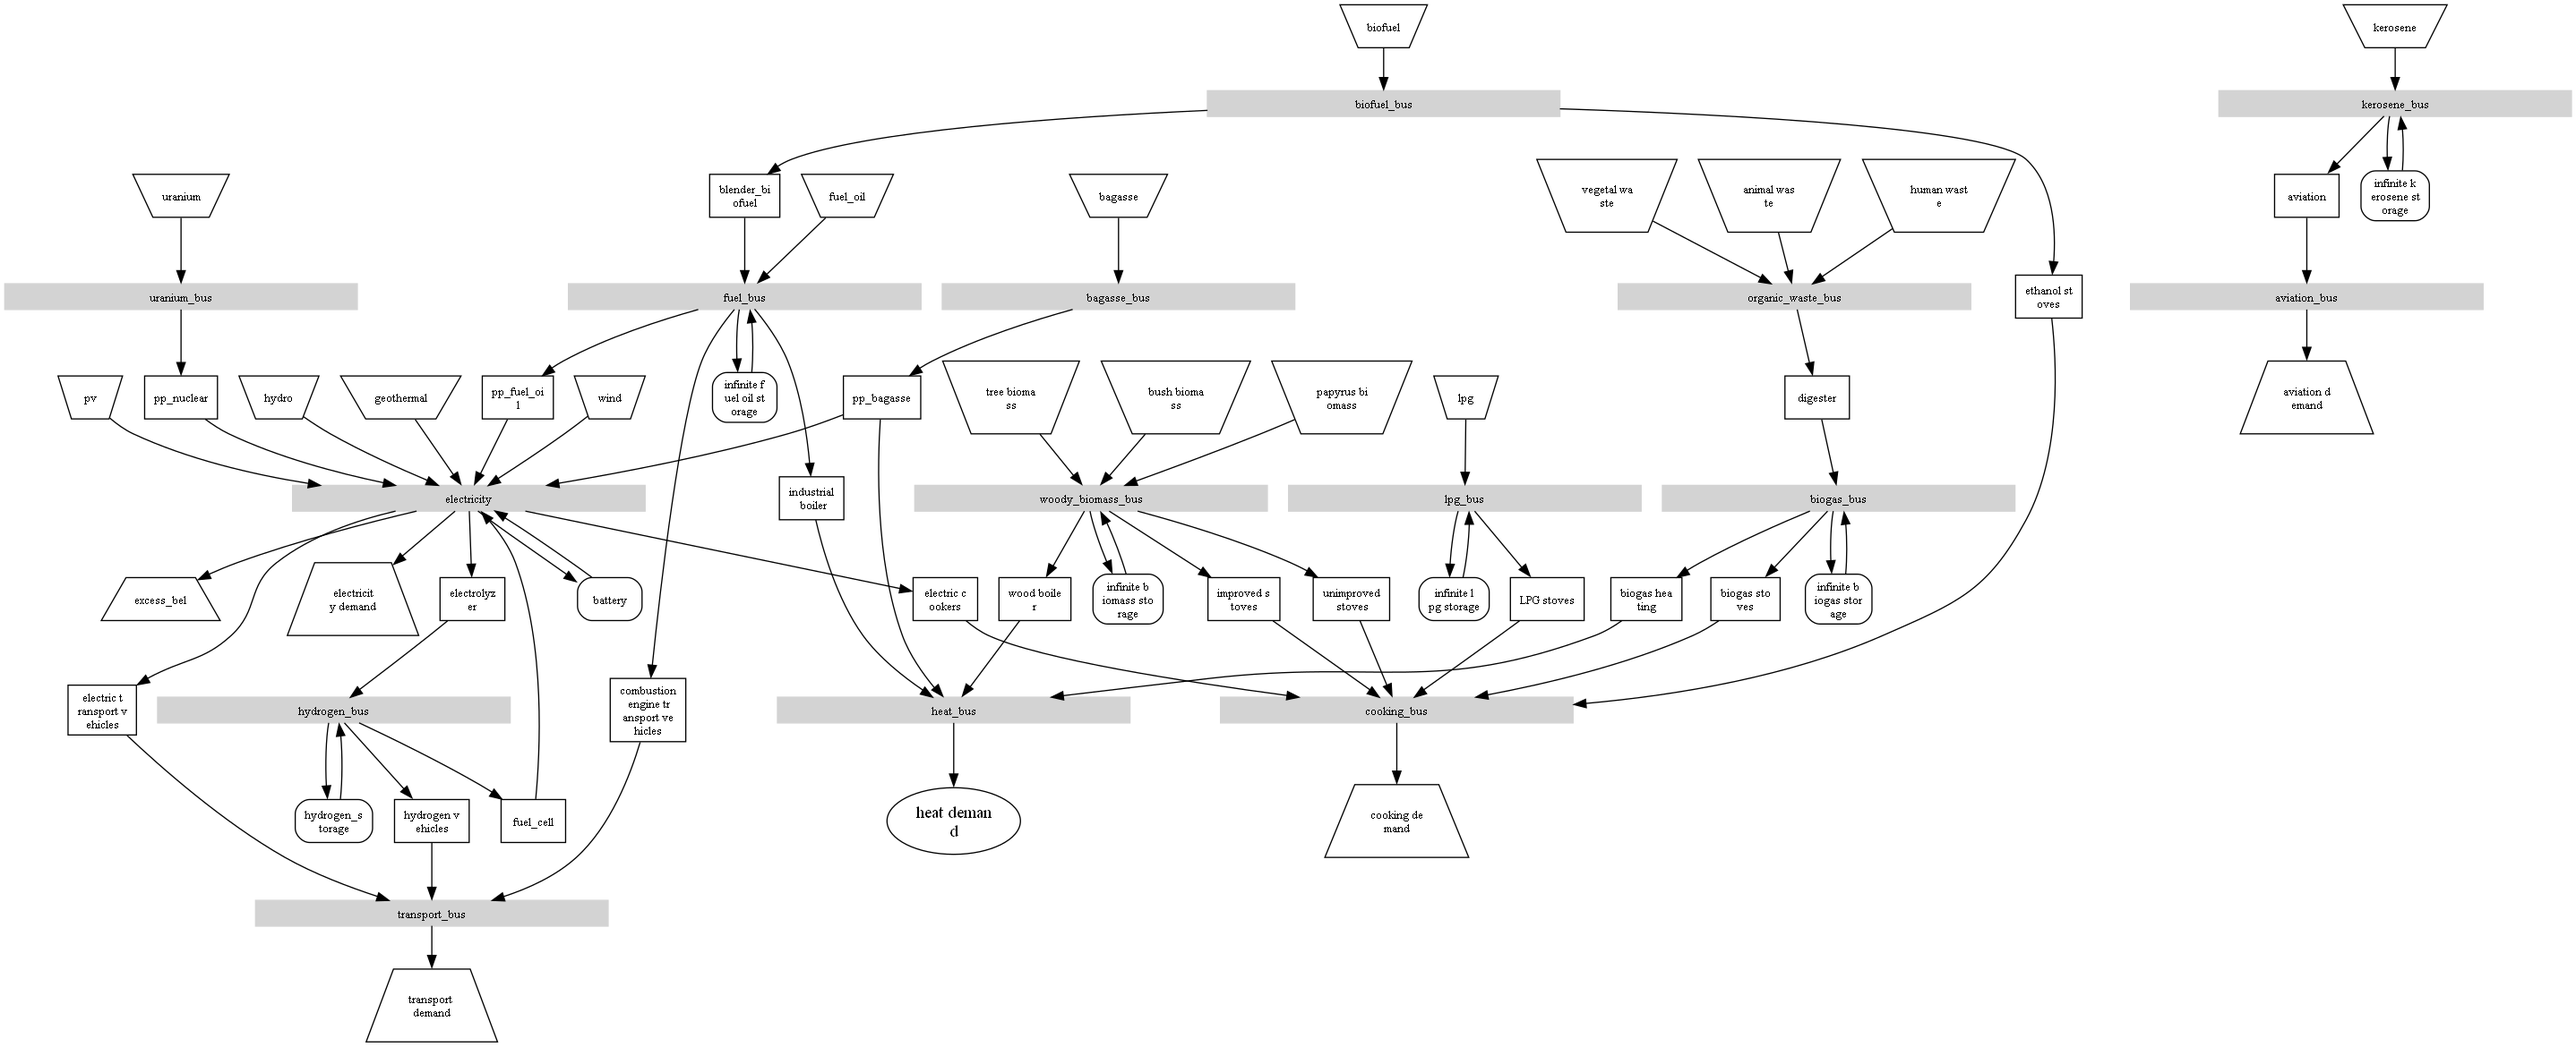
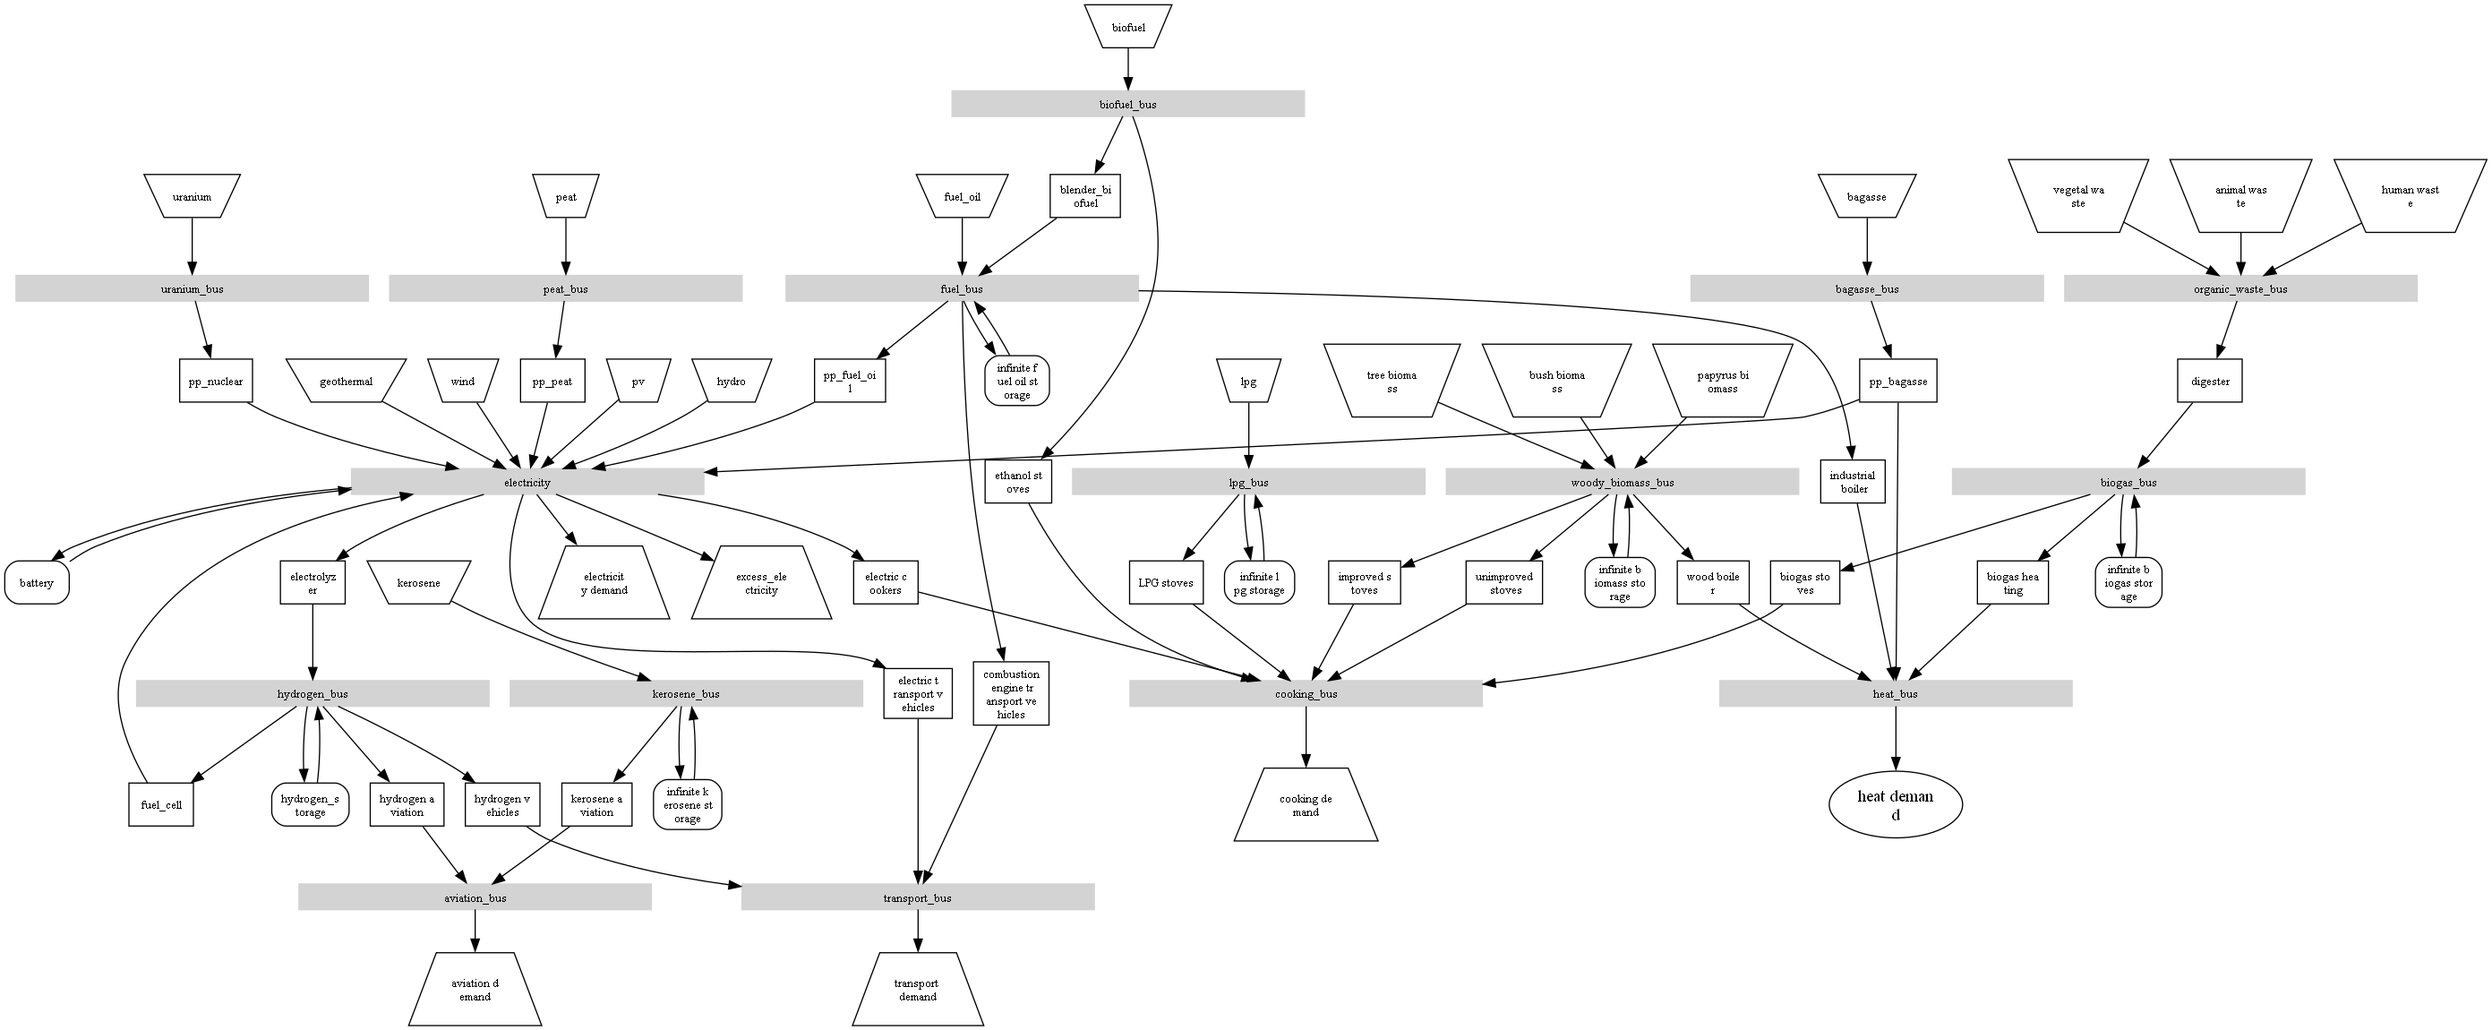
add peat energy and hydrogen vehicles; correcting RE share calculation

diff --git a/scenarios/superstructure_2040.py b/scenarios/superstructure_2040.py
@@ -82,7 +82,8 @@ epc_pv = 90345  # economics.annuity (n=20, wacc=0.05)
 epc_hydro = 247500  # economics.annuity (n=20, wacc=0.05)
 epc_battery = 21812.5  # economics.annuity (n=20, wacc=0.05)
 epc_hydrogen_storage = 3937.5
-epc_fuel_oil = 10  # 98000  # economics.annuity(capex=1000, n=20, wacc=0.05)
+epc_fuel_oil = 98000  # economics.annuity(capex=1000, n=20, wacc=0.05)
+epc_peat = 187182.5  # economics.annuity(capex=1000, n=25, wacc=0.05)
 epc_biomass = 206250  # sugarcane bagasse CHP
 epc_electrolyzer = 50625  # hydrogen electrolyzer
 epc_nuclear = 506192.5  # economics.annuity (n=50, wacc=0.05)
@@ -100,7 +101,8 @@ epc_ethanol_stove = 1000
 epc_combustion_engine_transport = 13937.5
 epc_electric_transport = 20500
 epc_hydrogen_transport = 17875
-epc_aviation = 650687.5
+epc_kerosene_aviation = 650687.5
+epc_hydrogen_aviation = 1000000
 
 
 ##########################################################################
@@ -115,8 +117,11 @@ bfuel = solph.Bus(label="fuel_bus")
 # create biofuel bus
 bbfuel = solph.Bus(label="biofuel_bus")
 
-# create uran bus
+# create uranium bus
 buran = solph.Bus(label="uranium_bus")
+
+# create peat bus
+bpeat = solph.Bus(label="peat_bus")
 
 # create kerosene bus
 bks = solph.Bus(label="kerosene_bus")
@@ -157,12 +162,8 @@ bba = solph.Bus(label='bagasse_bus')
 # create lpg bus
 blpg = solph.Bus(label='lpg_bus')
 
-energysystem.add(bfuel, bbfuel, buran, bel, borg, bks, bba, bbg, bheat, btrans, bavia, bcook, bhg, blpg, bwood)
+energysystem.add(bfuel, bbfuel, buran, bel, bpeat, borg, bks, bba, bbg, bheat, btrans, bavia, bcook, bhg, blpg, bwood)
 
-# create excess component for the electricity bus to allow overproduction
-excess = solph.components.Sink(
-    label="excess_bel", inputs={bel: solph.Flow()}
-)
 
 # create source object representing the fuel oil commodity
 fuel_oil_resource = solph.components.Source(
@@ -174,6 +175,10 @@ biofuel_resource = solph.components.Source(
     label="biofuel", outputs={bbfuel: solph.Flow(variable_costs=price_biofuel, nominal_value=1, max=1007)}
 )
 
+# create peat source object
+peat_resource = solph.components.Source(
+    label="peat", outputs={bpeat: solph.Flow(variable_costs=price_peat)}
+)
 # uranium resource
 uranium_resource = solph.components.Source(
     label="uranium", outputs={buran: solph.Flow(variable_costs=price_uranium)}
@@ -269,7 +274,7 @@ pp_nuclear = solph.components.Transformer(
     inputs={buran: solph.Flow()},
     outputs={
         bel: solph.Flow(full_load_time_min=number_timesteps,  # constant operation at rated power
-                        variable_costs=3.4, investment=solph.Investment(ep_costs=epc_nuclear))
+                        variable_costs=13, investment=solph.Investment(ep_costs=epc_nuclear))
     },
     conversion_factors={bel: 0.33}
 )
@@ -286,11 +291,25 @@ pp_fuel_oil = solph.components.Transformer(
     label="pp_fuel_oil",
     inputs={bfuel: solph.Flow()},
     outputs={
-        bel: solph.Flow(variable_costs=3.4,
+        bel: solph.Flow(full_load_time_min=number_timesteps,  # constant operation at rated power
+                        variable_costs=3.4,
                         investment=solph.Investment(ep_costs=epc_fuel_oil, existing=92))
     },
     conversion_factors={bel: 0.375},
 )
+
+# create simple transformer object representing a fuel oil plant
+pp_peat = solph.components.Transformer(
+    label="pp_peat",
+    inputs={bpeat: solph.Flow()},
+    outputs={
+        bel: solph.Flow(full_load_time_min=number_timesteps,  # constant operation at rated power
+                        variable_costs=6.8,
+                        investment=solph.Investment(ep_costs=epc_peat, maximum=800))
+    },
+    conversion_factors={bel: 0.4},
+)
+
 
 # Anaerobic Digester
 digester = solph.components.Transformer(
@@ -449,14 +468,26 @@ transport_hg = solph.components.Transformer(
     },
     conversion_factors={btrans: 0.3},
 )
-# airplanes
-aviation = solph.components.Transformer(
-    label="aviation",
+# hydrogen airplanes
+airplanes_hydrogen = solph.components.Transformer(
+    label="hydrogen aviation",
+    inputs={bhg: solph.Flow()},
+    outputs={
+        bavia: solph.Flow(
+            variable_costs=0,
+            investment=solph.Investment(ep_costs=epc_hydrogen_aviation)
+        )
+    },
+    conversion_factors={bavia: 0.3},
+)
+# kerosene airplanes
+airplanes_kerosene = solph.components.Transformer(
+    label="kerosene aviation",
     inputs={bks: solph.Flow()},
     outputs={
         bavia: solph.Flow(
             variable_costs=0,
-            investment=solph.Investment(ep_costs=epc_aviation)
+            investment=solph.Investment(ep_costs=epc_kerosene_aviation)
         )
     },
     conversion_factors={bavia: 0.3},
@@ -619,6 +650,12 @@ demand_heat = solph.components.Sink(
     inputs={bheat: solph.Flow(fix=data["demand_heat"], nominal_value=2908)},
 )
 
+# create simple sink object representing excess electricty production allowing overproduction
+excess_electricity = solph.components.Sink(
+    label="excess_electricity",
+    inputs={bel: solph.Flow()},
+)
+
 # create simple sink object representing the cooking demand
 demand_cooking = solph.components.Sink(
     label="cooking demand",
@@ -636,14 +673,15 @@ demand_aviation = solph.components.Sink(
 )
 
 # cooking demand, transport demand sinks!
-energysystem.add(excess, fuel_oil_resource, uranium_resource, biofuel_resource, tree_biomass_resource,
+energysystem.add(fuel_oil_resource, uranium_resource, biofuel_resource, tree_biomass_resource,
                  bush_resource, papyrus_resource, vegetal_waste, animal_waste, human_waste, bagasse_resource,
                  lpg_resource, kerosene_resource, wind, pv, hydro, geothermal, demand_el, demand_cooking,
                  demand_transport, demand_aviation, pp_fuel_oil, pp_nuclear, pp_bagasse, biogas_heating,
-                 industrial_boiler, digester, battery_storage, electrolyzer, fuel_cell, aviation, hydrogen_storage,
+                 industrial_boiler, digester, battery_storage, electrolyzer, fuel_cell, hydrogen_storage,
                  transport_el, transport_ce, transport_hg, cooker_el, stove_unimproved, stove_improved, stove_lpg,
                  stove_biogas, stove_ethanol, infinite_wood_storage, infinite_kerosene_storage, infinite_lpg_storage,
-                 infinite_biogas_storage, blender_biofuel, wood_boiler, infinite_fuel_storage)
+                 infinite_biogas_storage, blender_biofuel, wood_boiler, infinite_fuel_storage, pp_peat, peat_resource,
+                 excess_electricity, airplanes_kerosene, airplanes_hydrogen)
 
 ##########################################################################
 # Visualize the energy system
@@ -757,15 +795,22 @@ my_results["biofuel_share"] = (
 my_results["RE_share_electricity production"] = (
         1
         - (results[(pp_fuel_oil, bel)]["sequences"].sum()
-           + results[(pp_nuclear, bel)]["sequences"].sum())
-        / results[(bel, demand_el)]["sequences"].sum()
+           + results[(pp_nuclear, bel)]["sequences"].sum()
+           + results[(pp_peat, bel)]["sequences"].sum())
+        / (results[(bel, demand_el)]["sequences"].sum() + results[(bel, excess_electricity)]["sequences"].sum()
+           + results[(bel, cooker_el)]["sequences"].sum() + results[(bel, transport_el)]["sequences"].sum()
+           + results[(bel, electrolyzer)]["sequences"].sum() - results[(fuel_cell, bel)]["sequences"].sum())
 )
 my_results["RE_share_effective_end_use_energy"] = (
         1
         - (results[(pp_fuel_oil, bel)]["sequences"].sum() + results[(pp_nuclear, bel)]["sequences"].sum()
+           + results[(pp_peat, bel)]["sequences"].sum()
            + results[(stove_lpg, bcook)]["sequences"].sum() + results[(transport_ce, btrans)]["sequences"].sum()
-           + results[(aviation, bavia)]["sequences"].sum() + non_renewable_biomass_cooking)
-        / (results[(bel, demand_el)]["sequences"].sum() + results[(bcook, demand_cooking)]["sequences"].sum()
+           + results[(airplanes_kerosene, bavia)]["sequences"].sum() + non_renewable_biomass_cooking)
+        / (results[(bel, demand_el)]["sequences"].sum() + results[(bel, excess_electricity)]["sequences"].sum()
+           + results[(bel, transport_el)]["sequences"].sum()
+           + results[(bel, electrolyzer)]["sequences"].sum() - results[(fuel_cell, bel)]["sequences"].sum()
+           + results[(bcook, demand_cooking)]["sequences"].sum()
            + results[(btrans, demand_transport)]["sequences"].sum()
            + results[(bheat, demand_heat)]["sequences"].sum() + results[(bavia, demand_aviation)]["sequences"].sum()
            )
